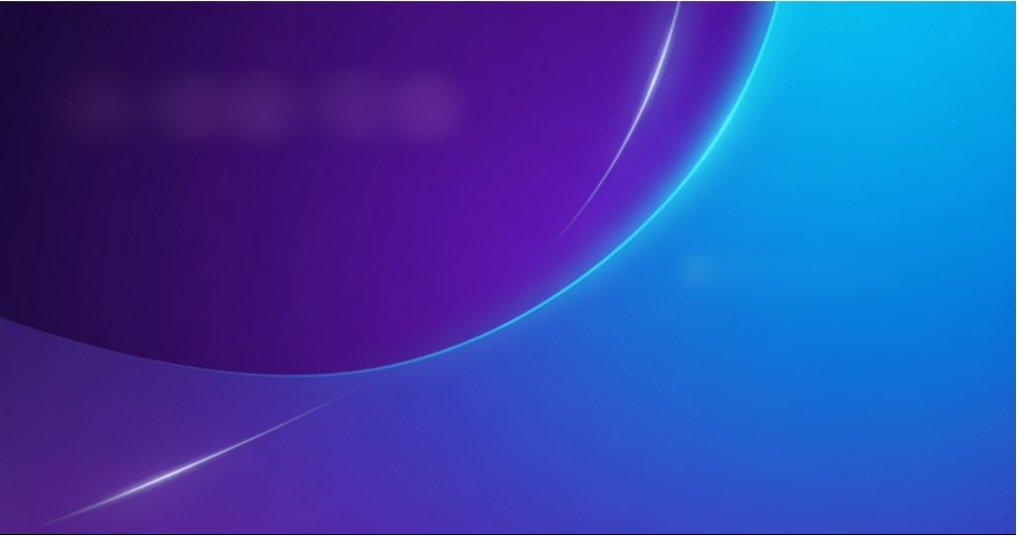
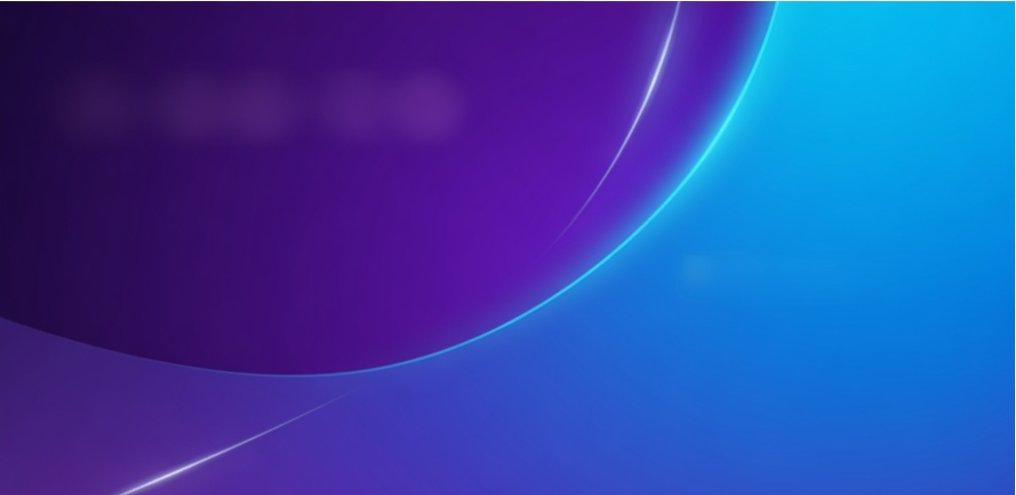
Add files via upload

diff --git a/nat2-padel.html b/nat2-padel.html
@@ -3681,7 +3681,7 @@ const CLUB_NAME = _club.name;  // shown in the logo as "OPR · <name>"
     link.setAttribute('href', href);
   }catch(e){ /* install stays on the static manifest — no functional impact */ }
 })();
-const OPR_VERSION = "OPR-DOUBLES v2026.09.03-56 · NAT fork n172 (no voice) (of PLAT p117)";  // MANUAL PAIR CREATION REMOVED FROM ADMIN: Create a pair, Bulk create pairs and Re-derive all pairs are gone (they only made match-less ghost pairs, and Re-derive rewrote every stored initial club-wide). Pairs are born automatically at match entry. Current pairs list untouched; the underlying JS is left in place unreferenced, so no other code path changes. Includes v47 (set-score fix + double-tap guard) and all prior.
+const OPR_VERSION = "OPR-DOUBLES v2026.09.03-56 · NAT fork n173 (no voice) (of PLAT p117)";  // MANUAL PAIR CREATION REMOVED FROM ADMIN: Create a pair, Bulk create pairs and Re-derive all pairs are gone (they only made match-less ghost pairs, and Re-derive rewrote every stored initial club-wide). Pairs are born automatically at match entry. Current pairs list untouched; the underlying JS is left in place unreferenced, so no other code path changes. Includes v47 (set-score fix + double-tap guard) and all prior.
 // Explanation shown above the individual ladder. Open on load so it's read; collapsible
 // (state kept for the session) and scrolls away. Mechanics only — no outcome framing, so
 // members aren't nudged away from playing stronger opponents. Every clause maps to a real
@@ -12927,10 +12927,11 @@ W.nhOpenPair=function(name){
              colour supplies the hue, and everything on it reads white. A very light colour is darkened for the
              card's background only, so white text stays readable whatever a club picks. */
           /* n169: the colour sits UNDER the picture, so no sliver of the page can show through at an edge */
-          /* n169: the shorthand first, then the colour under it — the other way round the shorthand wipes it */
+          /* n173: no flat colour under the picture — it was there to hide a white edge that came from the picture
+             file itself (a 12px white margin, now cropped out), and it flattened the group's colour. */
           /* n169: soft-light, not luminosity — the picture's brightest corner was blowing out to pure white down the
              right of the card. Soft-light keeps the texture and keeps the group's colour. */
-          +'border:2px solid '+cardEdge(col)+';background:'+cardSkin(col)+';background-color:'+cardBase(col)+';background-blend-mode:soft-light,normal;'
+          +'border:2px solid '+cardEdge(col)+';background:'+cardSkin(col)+';background-blend-mode:soft-light,normal;'
           +'background-origin:border-box;background-clip:border-box;background-repeat:no-repeat;overflow:hidden;'
           +'border-radius:16px;padding:19px 16px;margin:10px 12px 0;font:inherit;cursor:pointer;color:#fff">'
           +'<div style="display:flex;align-items:center;gap:10px">'
